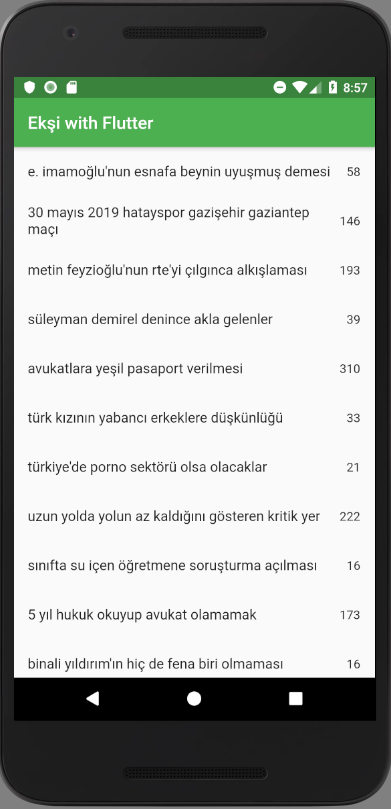
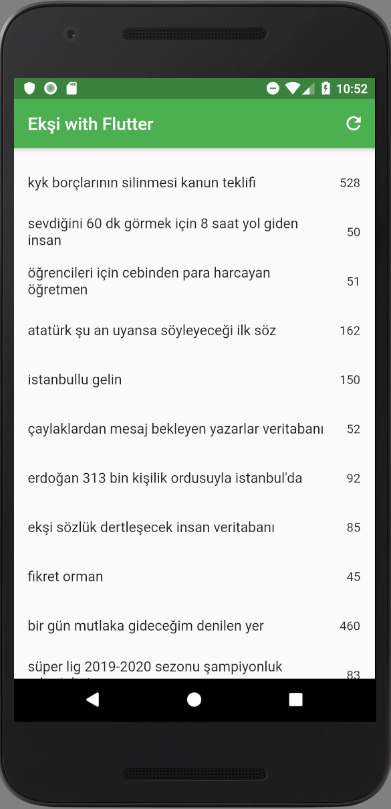
added entry detail page

diff --git a/lib/main.dart b/lib/main.dart
@@ -3,6 +3,8 @@ import 'dart:core';
 import 'package:http/http.dart';
 import 'package:html/parser.dart';
 import 'package:html/dom.dart' as dom; 
+import 'package:flutter_html/flutter_html.dart';
+import 'package:flutter_html_view/flutter_html_view.dart';
 
 
 void main() => runApp(MyApp());
@@ -47,6 +49,7 @@ class HomePageState extends State<HomePage>{
 
     var document = parse(response.body);
     var topicset = document.querySelectorAll('ul.topic-list > li > a');
+    List<Topic> localListTopics = [];
     
     for (var topic in topicset) {
       if(topic.text.isNotEmpty){
@@ -58,44 +61,16 @@ class HomePageState extends State<HomePage>{
         topicObject.title = tempTitle;
         topicObject.comments = tempComments;
         topicObject.url = topic.attributes['href'];
-        listTopics.add(topicObject);
+        localListTopics.add(topicObject);
       }
     }
-    topics = listTopics;
-    
-    setState(() {
-      topics = listTopics;
+    setState((){
+      listTopics = localListTopics;
     });
     return "Success";
   }
-  Future getPosts(Topic topic) async {
-    var newUrl = url + topic.url; 
-    var client = Client();
-    Response response = await client.get(newUrl);
-
-    // Use html parser and query selector
-    var document = parse(response.body);
-    topics = document.querySelectorAll('ul.entry-item-list > li');
-    
-    List<Topic> listTopics = [];
-    for (var topic in topics) {
-      if(topic.text.isNotEmpty){
-        List<String> tempA = topic.text.replaceAll("\n", "").split(' ');
-        String lastElement = tempA.removeLast();
-        String tempTitle = tempA.join(' ');
-        int tempComments = int.parse(lastElement);
-        Topic topicObject = new Topic();
-        topicObject.title = tempTitle;
-        topicObject.comments = tempComments;
-        topicObject.url = topic.attributes['href'];
-        listTopics.add(topicObject);
-      }
-    }
-  }
 
   Future<Null> refreshList() async {
-    refreshKey.currentState?.show(atTop: false);
-
     setState((){
       listTopics = [];
       print("*********REFRESHED*********");
@@ -125,6 +100,11 @@ class HomePageState extends State<HomePage>{
                     new ListTile(
                       title: new Text(listTopics[index].title),
                       trailing: new Text(listTopics[index].comments.toString()),
+                      onTap: () {
+                        Navigator.push(context, 
+                          new MaterialPageRoute(builder: (context) => TopicDetail(listTopics[index]))
+                        );
+                      },
                     )
                   ],
                 )));
@@ -133,10 +113,80 @@ class HomePageState extends State<HomePage>{
   }
 }
 
+class TopicDetail extends StatelessWidget {
+  Topic topicObject;
+  TopicDetail(this.topicObject);
+  List topics;
+  List posts;
+  int pages;
+  List<Post> listPosts = [];
+  String url; 
+
+  Future getPosts() async {
+    url = "https://eksisozluk.com" + topicObject.url;
+    var client = Client();
+    Response response = await client.get(url);
+    var document = parse(response.body);
+    var postset = document.querySelectorAll('#entry-item-list > li');
+    
+    for (var post in postset) { 
+      var vContent = post.querySelector('div.content').text;
+      var vAuthor = post.attributes['data-author']; 
+      var vFavCount = post.attributes['data-favorite-count']; 
+      var vDate = post.querySelector('footer > div.info > a.entry-date.permalink').text; 
+      Post postObject = new Post();
+      postObject.author = vAuthor;
+      postObject.content = vContent;
+      postObject.date = vDate;
+      postObject.favoriteCount = vFavCount;
+
+      listPosts.add(postObject);
+    }
+
+    return listPosts;
+  }
+  @override
+  Widget build (BuildContext ctxt) {
+    return new Scaffold(
+      appBar: new AppBar(
+        centerTitle: true,
+        title: FittedBox(fit:BoxFit.fitWidth, 
+        child: Text(topicObject.title)
+        )
+      ),
+      body: Container(
+          child: FutureBuilder(
+            future: getPosts(),
+            builder: (BuildContext context, AsyncSnapshot snapshot){
+              if(snapshot.data == null){
+                return Container(
+                  child: Center(
+                    child: Text("Loading...")
+                  )
+                );
+              } else {
+                return ListView.builder(
+                  itemCount: snapshot.data.length,
+                  itemBuilder: (BuildContext context, int index) {
+                    return ListTile(   
+                      title: Text(snapshot.data[index].content.toString()),
+                      subtitle: Text(snapshot.data[index].favoriteCount+" fav | "+snapshot.data[index].author +" | " +snapshot.data[index].date, textAlign: TextAlign.right,),
+                    );
+                  },
+                );
+              }
+            },
+          ),
+        ),
+    );
+  }
+}
+
 class Post {
     String author;
     String content;
     String favoriteCount;
+    String date;
     bool self;
 }
 class Topic {

diff --git a/README.md b/README.md
@@ -3,3 +3,4 @@
 Flutter application for reading https://eksisozluk.com.
 
 ![Screenshot](images/Screenshot_1.png)
+![Screenshot](images/Screenshot_2.png)
